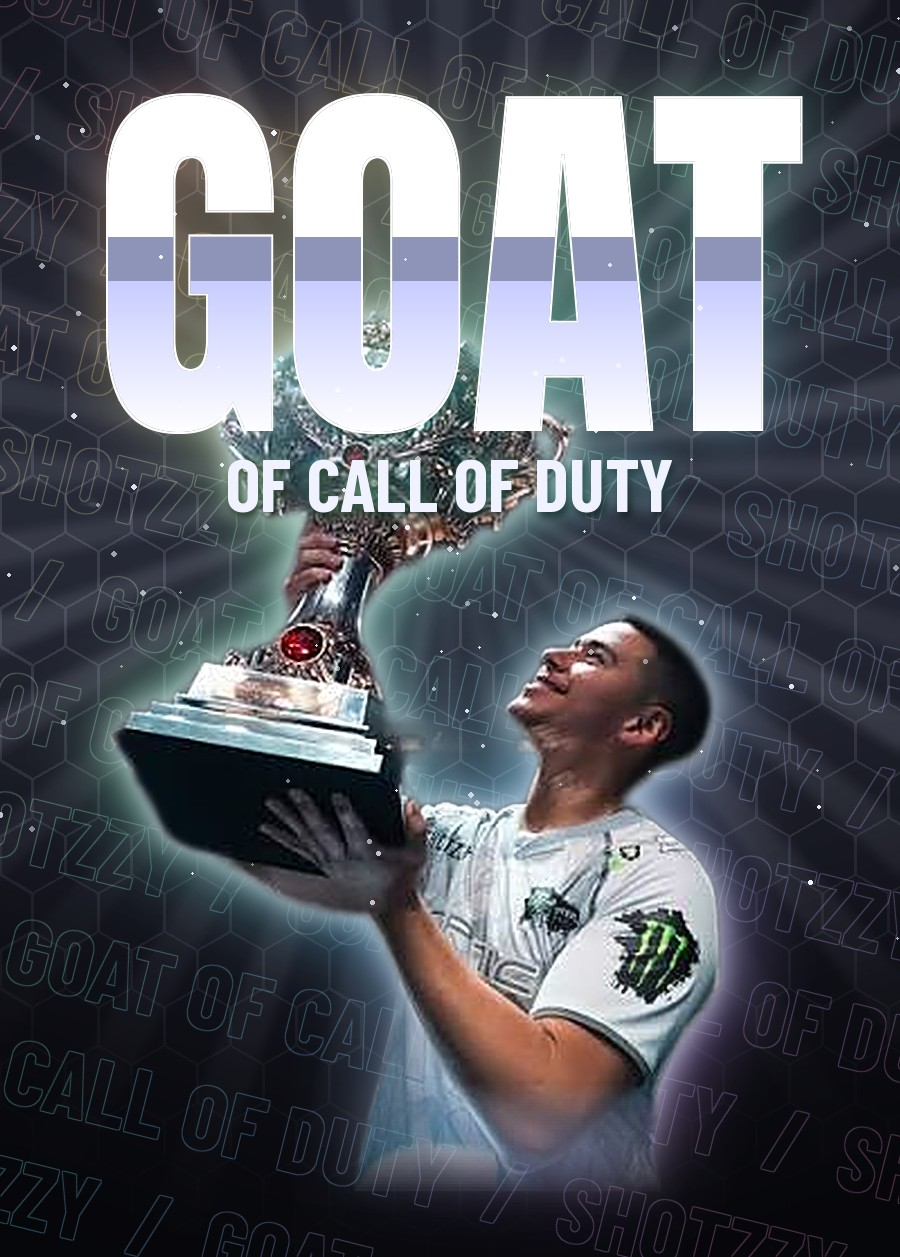
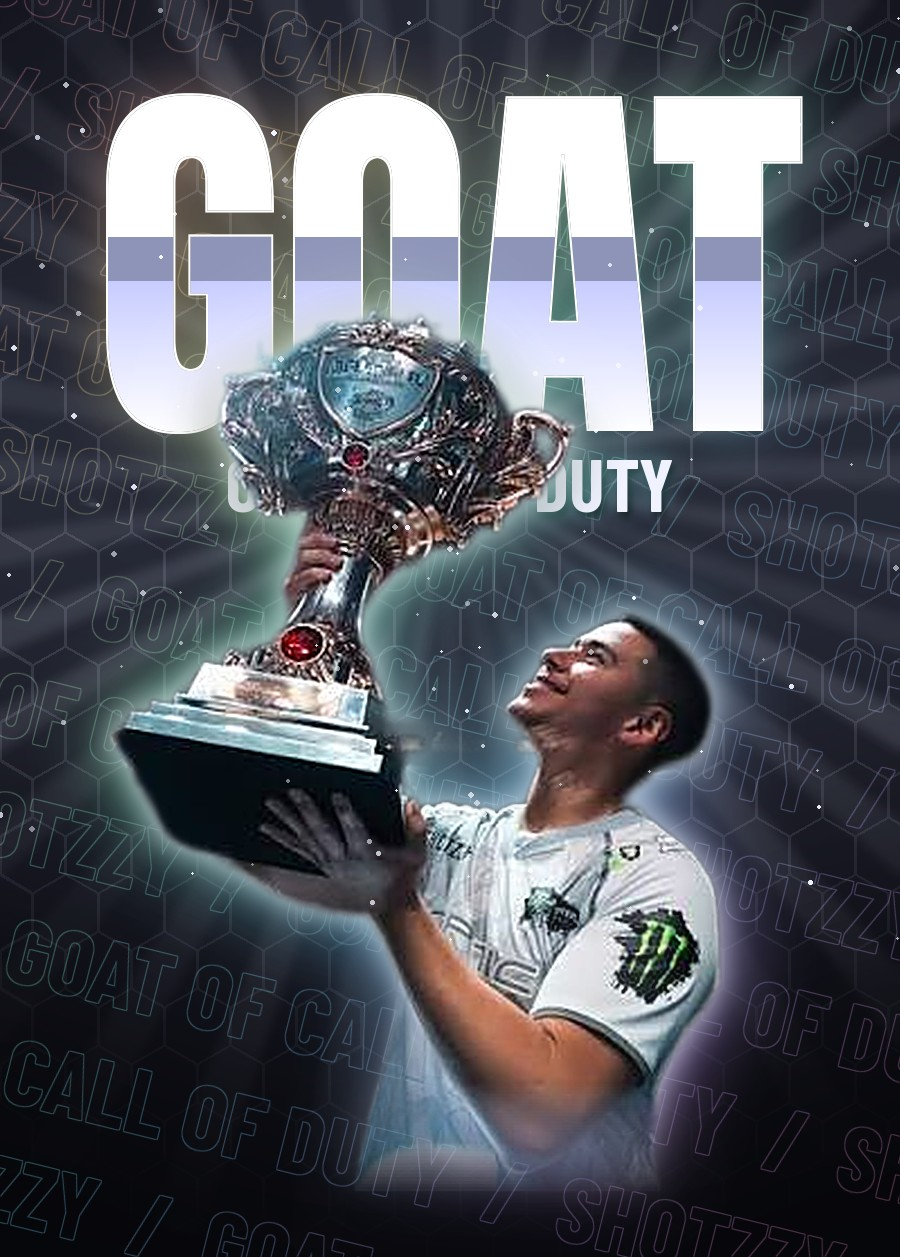
GOAT Shotzzy et Faker : joueur par-dessus le titre
Claude-Session: https://claude.ai/code/session_01Dg1JrLG6P1kF5UdtUDydXh

Changed region(s): [[0.2178, 0.2482, 0.6533, 0.4344]]

diff --git a/data/origines.js b/data/origines.js
@@ -151,7 +151,7 @@ window.ORIGINES = {
     "Astralis — La dynastie des 4 Majors": {"img": "assets/cartes/astralis-la-dynastie-des-4-majors.jpg?v=9c628fb0", "color": "#e21c30", "photo": true},
     "OG — Le doublé TI8 & TI9": {"img": "assets/cartes/og-le-double-ti8-ti9.jpg?v=08a4fe05", "color": "#2fd08a", "photo": true},
     "Kaydop": {"img": "assets/cartes/kaydop-goat.jpg?v=aa8a387f", "color": "#5aa9ff", "photo": true},
-    "Shotzzy": {"img": "assets/cartes/shotzzy-goat.jpg?v=e4a35bf2", "color": "#92c83e", "photo": true},
+    "Shotzzy": {"img": "assets/cartes/shotzzy-goat.jpg?v=2f5beb79", "color": "#92c83e", "photo": true},
     "Kaydop — Triple champion du monde": {"img": "assets/cartes/kaydop-triple-champion-du-monde.jpg?v=8e10b0b5", "color": "#f5c935", "photo": true},
     "ZywOo": {"img": "assets/cartes/zywoo-goat.jpg?v=33563a72", "color": "#f5c935", "photo": true},
     "apEX — Le capitaine": {"img": "assets/cartes/apex-le-capitaine.jpg?v=ba0c87d5", "color": "#f5c935", "photo": true},
@@ -162,7 +162,7 @@ window.ORIGINES = {
     "Deft — Le rêve de DRX": {"img": "assets/cartes/deft-le-reve-de-drx.jpg?v=e3e31a8b", "color": "#3a6fd8", "photo": true},
     "Ceb — Le Français de OG": {"img": "assets/cartes/ceb-le-francais-de-og.jpg?v=7273a66f", "color": "#2fd08a", "photo": true},
     "Gotaga — Le Roi de Call of Duty": {"img": "assets/cartes/gotaga-le-roi-de-call-of-duty.jpg?v=e2fd5c83", "color": "#ff9614", "photo": true},
-    "Faker": {"img": "assets/cartes/faker-goat.jpg?v=a2f2c717", "color": "#e2012d", "photo": true},
+    "Faker": {"img": "assets/cartes/faker-goat.jpg?v=eaaf8552", "color": "#e2012d", "photo": true},
     "Fortnite World Cup — Arthur Ashe Stadium": {"img": "assets/cartes/fortnite-world-cup-arthur-ashe-stadium.jpg?v=dc2d74d3", "color": "#5b3df5", "photo": true},
     "Evil Geniuses — Champions de TI5": {"img": "assets/cartes/evil-geniuses-champions-de-ti5.jpg?v=14de794e", "color": "#1d3c6e", "photo": true},
     "Invictus Gaming — Le premier sacre chinois": {"img": "assets/cartes/invictus-gaming-le-premier-sacre-chinois.jpg?v=1bcaa6df", "color": "#3a6fd8", "photo": true},

diff --git a/index.html b/index.html
@@ -1119,7 +1119,7 @@
 <div class="demo-bar" id="demoBar" hidden title="Cliquer pour masquer">Mode démo : le serveur n'est pas encore branché. La progression reste dans ce navigateur. ✕</div>
 <div class="toast" id="toast" role="status"></div>
 
-<script src="data/origines.js?v=cdec9532"></script>
+<script src="data/origines.js?v=04961294"></script>
 <script src="js/vendor/supabase.js?v=43b205e2"></script>
 <script src="config.js?v=0e2600ff"></script>
 <script src="js/app.js?v=440a9b3f"></script>
